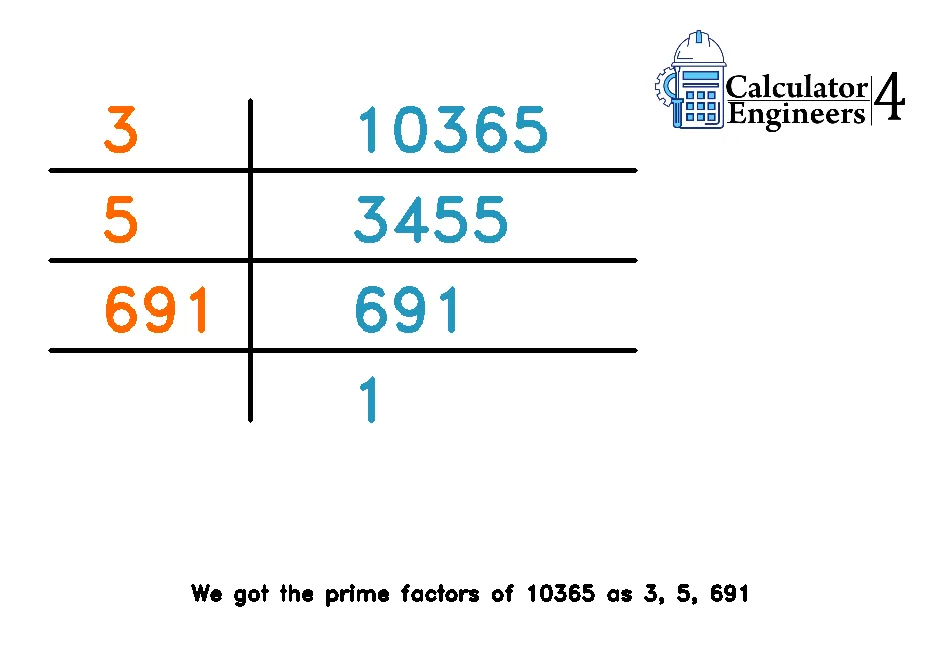
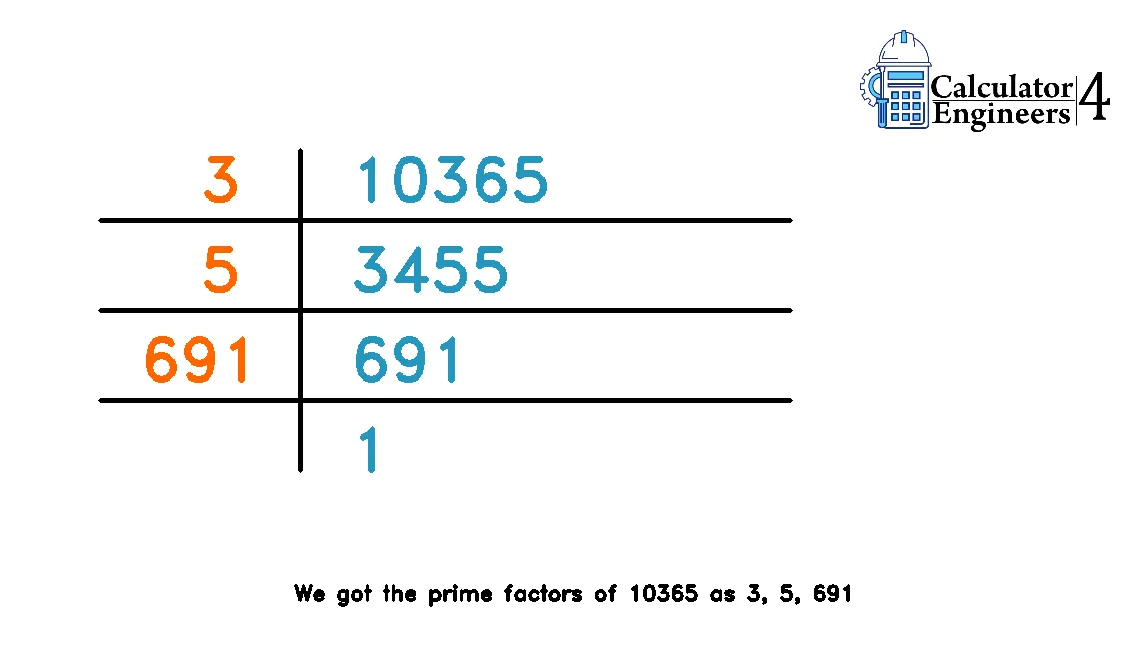
fixed double

Changed region(s): [[0.062, 0.1538, 0.7134, 0.7385], [0.6824, 0.0308, 0.9925, 0.2154], [0.1861, 0.8923, 0.8064, 0.9538]]

diff --git a/tempCodeRunnerFile.py b/tempCodeRunnerFile.py
@@ -1,0 +1,102 @@
+content = content + wp_h3("Factor Tree Method")
+# content = content + \
+#     wp_paragraph("Here, the target number serves as the tree's root, while the factors are its branches. For this reason, we refer to it as the Factor Tree Approach.")
+# content = content + image_add_tree()
+# content = content + wp_paragraph("In this case, we'll represent the supplied number as the root of a tree and its factors as their respective branches. We'll use diagonals to graphically represent the relationship between the two variables and the tree structures. We'll extract just prime factors from the tree. By breaking it down into manageable chunks, we can accomplish it.")
+
+# h4_step = "Step 1"
+# content = content + wp_h4(h4_step)
+# hold = f"Before we can begin to factor a given number, we need to write it down. {n} is the given number in this context. Get the first two factors of the number {n}. We'll begin with the smallest possible number, which is 2 (Note that we didn't pick 1, since every integer is divisible by both 1 and itself). <br>"
+# if primef[0] == 2:
+#     content = content + \
+#         wp_paragraph(
+#             f"With no leftover, {n} is divided by 2 in this instance.Therefore, the first two factors of {n} will be {primef[0]} and {left[1]}.We would continue exploring until we discovered a prime number that exactly divided {n} if it wasn't divisible by 2. ") + image_upload(treeImages[0])
+# else:
+#     content = content + \
+#         wp_paragraph(
+#             hold + f"Yet {n} cannot be divided by 2 without remainder. We'll give it a shot with {primef[0]}, since {n} is neatly divisible by that number. If it wasn't divisible by {primef[0]}, we'd keep looking until we found a prime number that exactly divided {n}. We’ll get {primef[0]} & {left[1]} as the first two factors of {n}. ") + image_upload(treeImages[0])
+# if len(primef) > 1:
+#     for i in range(1, len(primef)-1):
+#         h4_step = f"Step {i+1}"
+#         random_list = [f"Given that {primef[i-1]} is prime whereas {left[i]} is not , we can factorize {left[i]} in the same way we did before. The two components of {left[i]} are hence {primef[i]} and {left[i+1]}.", f"We can factorize {left[i]} the same way we did previously because {primef[i-1]} is prime but {left[i]} is not . Thus, {primef[i]} and {left[i+1]} are the two parts of {left[i]}. ", f"Since {left[i]} is not prime but {primef[i-1]} is , we can factorize {left[i]} in the same manner as before.{primef[i]} and {left[i+1]} are the two parts of {left[i]} as a result. "
+#                        f"We'll now carry out the same exact procedure for the quotient as well. This time, the quotient will be {left[i+1]} when we divide {left[i]} by {primef[i]}. ", f"The exact same procedure will now be repeated for the quotient as well. This time, the result of dividing {left[i]} by {primef[i]} is {left[i+1]}. "]
+#         content = content + wp_h4(h4_step) + \
+#             wp_paragraph(random.choice(random_list)) + \
+#             image_upload(treeImages[i])
+
+#     h4_step = f"Step {len(primef)}"
+#     random_list = [f"Since {primef[len(primef)-2]} and {left[len(primef)-1]} are both prime numbers, it cannot be factored any further. With that, our factor tree is finished.", f"There are no more factors because {primef[len(primef)-2]} and {left[len(primef)-1]} are both prime numbers. Our factor tree is now complete. ", f"It cannot be further factored because {primef[len(primef)-2]} and {left[len(primef)-1]} are both prime numbers. Our factor tree is complete at this point. ", f"At last being a prime, {left[len(primef)-1]} can be evenly divided only by itself and the quotient will become 1. So our tree is complete ",
+#                    f"Due to its prime nature, {left[len(primef)-1]} can only be evenly divided by itself and {primef[len(primef)-2]} is a prime number, in which case the quotient will be 1. Thus the tree is complete.", f"At last {primef[len(primef)-2]} is a prime number and {left[len(primef)-1]} is only divisible by {primef[len(primef)-1]} which is a prime number. So it can’t be factorized again. So, our factor tree is completed."]
+#     content = content + wp_h4(h4_step) + \
+#         wp_paragraph(random.choice(random_list))
+
+# content = content + \
+#     wp_paragraph(
+#         f"From the diagram we get {str_primef} as the prime factors of {n} as those factors can’t be factorized further.")
+# content = content + \
+#     wp_paragraph(f"We can express like this: {n} = {multi_primef}")
+# content = content + \
+#     wp_paragraph(
+#         "<b> Note: we need to factorize them until all the factors become prime numbers.</b>")
+
+
+# #############################################################################################
+# # Division Method
+# #############################################################################################
+
+# content = content + wp_h3("Division Method")
+# content = content + wp_paragraph("To find prime factors, you can also use another well-known technique. The process is known as division. Finding factors in this manner is the least complicated option.This approach requires repeated division by the specified number.")
+# content = content + image_add_division()
+# content = content + \
+#     wp_paragraph(
+#         "That's why it's referred to as a \"division method.\" Here's how it works, step by step:")
+
+# h4_step = "Step 1"
+# content = content + wp_h4(h4_step)
+# hold = f"Let’s find out the prime factors of {n} by division method. First we’ll divide the {n} by the smallest prime number 2. "
+# if primef[0] == 2:
+#     content = content + \
+#         wp_paragraph(
+#             hold + f"We can divide {n} by 2 easily. Then, we have to move towards the next one. {primef[1]} can divide {left[1]} evenly. So, we’ll divide it by {primef[1]} and get {left[2]} as the quotient.") + image_upload(divisionImages[0])
+#     phase2 = 2
+#     if len(primef) > 2:
+#         for i in range(phase2, len(primef)-1):
+#             h4_step = f"Step {i}"
+#             # random_list = [f"Now {left[i]} is divisible by {primef[i]} which is a prime number and the reminder is {left[i+1]}", f"Here the prime number {primef[i]} divides {left[i]}, and the reminder is {left[i+1]}",
+#             #                f"The reminder in this case is {left[i+1]}, and the number {left[i]} is divisible by {primef[i]} - a prime number"]
+#             random_list = [
+#                 f"Now we’ll repeat the exact process for the quotient also. We can divide {left[i]} by {primef[i]} and {left[i+1]} will be the quotient this time. ", f"We'll now carry out the same exact procedure for the quotient as well. This time, the quotient will be {left[i+1]} when we divide {left[i]} by {primef[i]}. ", f"We'll do the same exact thing for the quotient next. We may divide {left[i]} by {primef[i]}, and this time the quotient will be {left[i+1]}. ", f"The exact same procedure will now be repeated for the quotient as well. This time, the result of dividing {left[i]} by {primef[i]} is {left[i+1]}. "]
+#             content = content + wp_h4(h4_step) + \
+#                 wp_paragraph(random.choice(random_list)) + \
+#                 image_upload(divisionImages[i])
+#         h4_step = f"Step {len(primef)-1}"
+#         random_list = [f"Being a prime, {left[len(primef)-1]} can be evenly divided only by itself and the quotient will become 1. ", f"Being a prime, {left[len(primef)-1]} can only be evenly divided by itself, resulting in a fraction of 1. ",
+#                        f"Due to its prime nature, {left[len(primef)-1]} can only be evenly divided by itself, in which case the quotient will be 1. ", f"Now {left[len(primef)-1]} can only be evenly divided by itself because it is a prime number, and the result is 1. ", f"At last {left[len(primef)-1]} is only divisible by {primef[len(primef)-1]} which is a prime number. So it can’t be factorized again. So, our factor tree is completed."]
+#         content = content + wp_h4(h4_step) + \
+#             wp_paragraph(random.choice(random_list)) + \
+#             image_upload(divisionImages[len(divisionImages)-1])
+# else:
+#     content = content + \
+#         wp_paragraph(
+#             hold + f"But 2 can’t divide {n} exactly. So, we have to move towards the next one. {primef[0]} can divide {n} evenly. So, we’ll divide it by {primef[0]} and get {left[1]} as the quotient.") + image_upload(divisionImages[0])
+#     phase2 = 1
+#     if len(primef) > 1:
+#         for i in range(phase2, len(primef)-1):
+#             h4_step = f"Step {i+1}"
+#             # random_list = [f"Now {left[i]} is divisible by {primef[i]} which is a prime number and the reminder is {left[i+1]}", f"Here the prime number {primef[i]} divides {left[i]}, and the reminder is {left[i+1]}",
+#             #                f"The reminder in this case is {left[i+1]}, and the number {left[i]} is divisible by {primef[i]} - a prime number"]
+#             random_list = [
+#                 f"Now we’ll repeat the exact process for the quotient also. We can divide {left[i]} by {primef[i]} and {left[i+1]} will be the quotient this time. ", f"We'll now carry out the same exact procedure for the quotient as well. This time, the quotient will be {left[i+1]} when we divide {left[i]} by {primef[i]}. ", f"We'll do the same exact thing for the quotient next. We may divide {left[i]} by {primef[i]}, and this time the quotient will be {left[i+1]}. ", f"The exact same procedure will now be repeated for the quotient as well. This time, the result of dividing {left[i]} by {primef[i]} is {left[i+1]}. "]
+#             content = content + wp_h4(h4_step) + \
+#                 wp_paragraph(random.choice(random_list)) + \
+#                 image_upload(divisionImages[i])
+
+#         h4_step = f"Step {len(primef)}"
+#         random_list = [f"Being a prime, {left[len(primef)-1]} can be evenly divided only by itself and the quotient will become 1. ", f"Being a prime, {left[len(primef)-1]} can only be evenly divided by itself, resulting in a fraction of 1. ",
+#                        f"Due to its prime nature, {left[len(primef)-1]} can only be evenly divided by itself, in which case the quotient will be 1. ", f"Now {left[len(primef)-1]} can only be evenly divided by itself because it is a prime number, and the result is 1. ", f"At last {left[len(primef)-1]} is only divisible by {primef[len(primef)-1]} which is a prime number. So it can’t be factorized again. So, our factor tree is completed."]
+#         content = content + wp_h4(h4_step) + \
+#             wp_paragraph(random.choice(random_list)) + \
+#             image_upload(divisionImages[len(divisionImages)-1])
+# content = content + \
+#     wp_paragraph(
+#         "< strong > Note: We’ll have to repeat the process until the quotient becomes 1.< /strong >")

diff --git a/primeFactorVisualizer.py b/primeFactorVisualizer.py
@@ -111,7 +111,7 @@ def createTreeStructure(n: int):
     font = cv2.FONT_HERSHEY_SIMPLEX
     items = primeFactors(n)
     height = int(60 * 4 * (len(items) + 1))
-    width = int((len(items) + 2) * 4 * 60)
+    width = int((len(items) + 3) * 4 * 60)
     radius = 60
     centerX = int(width/2) - radius*2
     # centerX = radius*4
@@ -154,22 +154,27 @@ def createDivisionStructure(n):
     items = primeFactors(n)
     height = int((len(items) + 2) * 90) + 200
     logoPadding = 250
-    width = 550 + int(len(items)*45) + logoPadding
+    width = 800 + int(len(items)*30) + logoPadding
     npImg = np.zeros(shape=(height, width, 3), dtype=np.uint16)
     logoImg = loadLogo()
     npImg[:, :, :] = 255
-    textX = 100
-    textY = 150
+    textX = 200
+    textY = 200
 
     i = 0
     increaseFactor = 90
     for key in items:
+        fontAdjustment2 = 30
+        fontAdjustmentFactor = len(str(items[key])) - 1
+        print(fontAdjustmentFactor)
+        fontAdjustment2 = fontAdjustment2 * fontAdjustmentFactor
+
         cv2.putText(npImg, text=f"{key}",
-                    org=(textX + logoPadding, textY + i * increaseFactor), fontFace=font,
+                    org=(textX + 150, textY + i * increaseFactor), fontFace=font,
                     fontScale=fontScale, color=color1, thickness=3)
         cv2.line(npImg,
-                 pt1=(250, textY - 50),
-                 pt2=(250, textY + i * increaseFactor),
+                 pt1=(textX + 100, textY - 50),
+                 pt2=(textX + 100, textY + i * increaseFactor),
                  color=(0, 0, 0),
                  thickness=3
                  )
@@ -177,7 +182,7 @@ def createDivisionStructure(n):
             saveImg(img=npImg[:textY + i * increaseFactor + 100],
                     n=n, type="division", step=str(i))
         cv2.putText(npImg, text=f"{items[key]}",
-                    org=(textX, textY + i * increaseFactor), fontFace=font,
+                    org=(textX - fontAdjustment2, textY + i * increaseFactor), fontFace=font,
                     fontScale=fontScale, color=(255, 102, 0), thickness=3)
         cv2.line(npImg,
                  pt1=(int(textX/2), int(textY + 20 + i*increaseFactor)),
@@ -188,11 +193,11 @@ def createDivisionStructure(n):
         i += 1
 
     cv2.putText(npImg, text=f"1",
-                org=(textX+250, textY + i * increaseFactor), fontFace=font,
+                org=(textX+150, textY + i * increaseFactor), fontFace=font,
                 fontScale=fontScale, color=color1, thickness=3)
     cv2.line(npImg,
-             pt1=(250, textY - 50),
-             pt2=(250, textY + i * increaseFactor),
+             pt1=(textX + 100, textY - 50),
+             pt2=(textX + 100, textY + i * increaseFactor),
              color=(0, 0, 0),
              thickness=3
              )
@@ -282,7 +287,8 @@ def generateImages(n: int):
     arr = {}
 
     arr["TreeFiles"] = [i for i in createTreeStructure(n)]
-    arr["TreeFiles"].pop()
+    if (len(arr["TreeFiles"]) > 1):
+        arr["TreeFiles"].pop()
     arr["DivisionFiles"] = [i for i in createDivisionStructure(n)]
     arr["Banners"] = [i for i in createBanner(n)]
     # arr.__repr__()
@@ -292,7 +298,7 @@ def generateImages(n: int):
 fileNames = []
 
 if __name__ == "__main__":
-    n = 840
+    n = 97
     time1 = time.perf_counter()
     # createTreeStructure(n)
     # createDivisionStructure(n)

diff --git a/single-script.py b/single-script.py
@@ -33,7 +33,7 @@ url = 'https://calculator4engineers.com/wp-json/wp/v2'
 posttitle = "Automation test 101"
 postslug = "automation_test_101"
 postcontent = "This post is created by python script for testing purpose"
-content = "<h2>Rahi</h2><a href="'#'">I am Ironman</a>"
+content = "Baka<h2>Rahi</h2><a href="'#'">I am Ironman</a>"
 post = {
     'title': posttitle,
     'slug': postslug,
